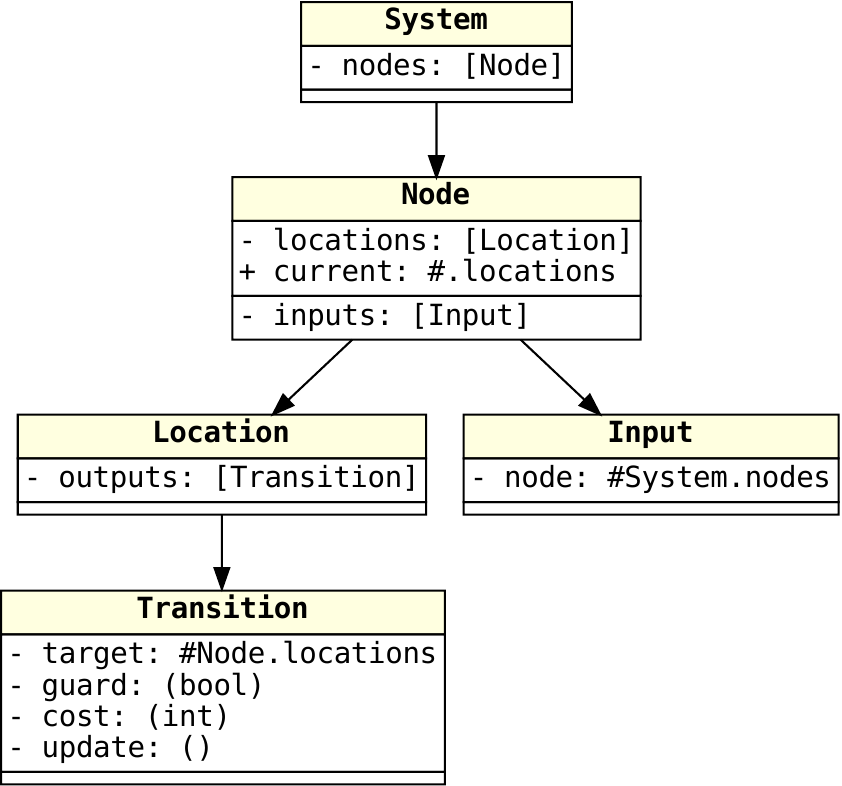
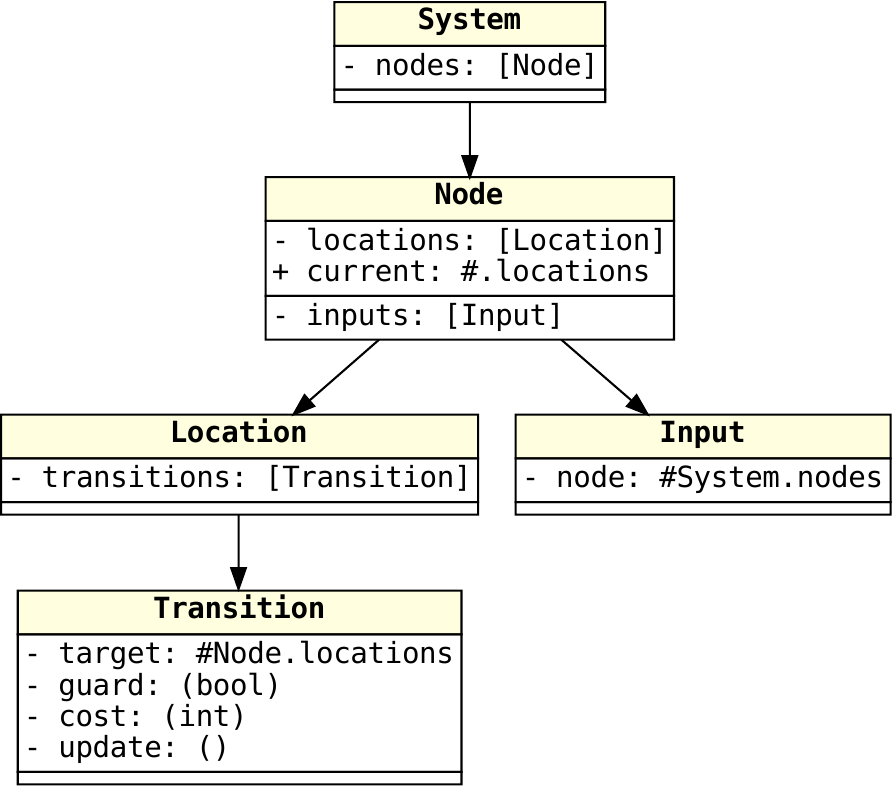
Location.outputs -> .transitions

diff --git a/hyena/pygen.py b/hyena/pygen.py
@@ -237,13 +237,13 @@ class Simulator:
         if state is None:
             state = old
         for nnum, node in enumerate(system.nodes):
-            for tnum, trans in enumerate(node.locations[node.current].outputs):
+            for tnum, trans in enumerate(node.locations[node.current].transitions):
                 self.set_state(state)
                 if trans.guard():
                     cost = trans.cost()
                     trans.update()
                     yield (self.get_state(),
-                           ("nodes", nnum, "locations", node.current, "outputs", tnum),
+                           ("nodes", nnum, "locations", node.current, "transitions", tnum),
                            cost)
         self.set_state(old)
     def _print_step(self):

diff --git a/mini/mini.py b/mini/mini.py
@@ -25,7 +25,7 @@ class Transition:
 class Location:
     # declare here all constants and functions that will be in location.env
     # default fields values
-    outputs = []
+    transitions = []
 
 @template
 class Node:
@@ -37,7 +37,7 @@ class Node:
     locations = [
         Location(
             status = "ok",
-            outputs=[
+            transitions=[
                 Transition(
                     target=1,
                     guard="location.status != STATUS.down and any(isUp(i.node) and isMalware(i.node) for i in node.inputs)",

diff --git a/hyena/ena.py b/hyena/ena.py
@@ -23,10 +23,10 @@ class Transition(Struct):
 
 @dataclass
 class Location(Struct):
-    outputs: Prime[Const[Array[Transition]]]
+    transitions: Prime[Const[Array[Transition]]]
     def succ(self, state, env, path):
-        for num, trans in enumerate(self.outputs):
-            yield from trans.succ(state, env|self.env, path + ("outputs", num))
+        for num, trans in enumerate(self.transitions):
+            yield from trans.succ(state, env|self.env, path + ("transitions", num))
 
 @dataclass
 class Input(Struct):

diff --git a/hyena/draw.py b/hyena/draw.py
@@ -63,7 +63,7 @@ def object_dot(out, root, gvopt):
             if lnum == node.current:
                 attrs += 'style=filled fillcolor="#FFFFAA"'
             out.write(f"    loc_{nnum}_{lnum} [{attrs}]\n")
-            for trans in loc.outputs:
+            for trans in loc.transitions:
                 out.write(f"    loc_{nnum}_{lnum} -> loc_{nnum}_{trans.target}\n")
         out.write("  }\n")
     for nnum, node in enumerate(root.nodes):

diff --git a/README.md b/README.md
@@ -131,10 +131,10 @@ where each node is depicted as a rectangle within which its automaton is drawn, 
 We focus on `Location.cost` expressions since they are the only expressions to require a real evaluation.
 Considering that our `System` instance is `system`, we have four cost expressions:
 
- * `system.nodes[0].locations[0].outputs[0].cost`
- * `system.nodes[0].locations[1].outputs[0].cost`
- * `system.nodes[1].locations[0].outputs[0].cost`
- * `system.nodes[1].locations[1].outputs[0].cost`
+ * `system.nodes[0].locations[0].transitions[0].cost`
+ * `system.nodes[0].locations[1].transitions[0].cost`
+ * `system.nodes[1].locations[0].transitions[0].cost`
+ * `system.nodes[1].locations[1].transitions[0].cost`
 
 Each of this expression can be evaluated in a context that corresponds exactly to the "path" (ie, the nesting of structures) that allows to access it from `system`.
 This is equivalent to defining four functions, one for each expression, as follows:
@@ -150,16 +150,16 @@ def make_cost(node, location, transition):
 
 make_cost(system.nodes[0],
           system.nodes[0].locations[0],
-          system.nodes[0].locations[0].outputs[0])
+          system.nodes[0].locations[0].transitions[0])
 make_cost(system.nodes[0],
           system.nodes[0].locations[1],
-          system.nodes[0].locations[1].outputs[0])
+          system.nodes[0].locations[1].transitions[0])
 make_cost(system.nodes[1],
           system.nodes[1].locations[0],
-          system.nodes[1].locations[0].outputs[0])
+          system.nodes[1].locations[0].transitions[0])
 make_cost(system.nodes[1],
           system.nodes[1].locations[1],
-          system.nodes[1].locations[1].outputs[0])
+          system.nodes[1].locations[1].transitions[0])
 ```
 
 In this code, the function `cost` for each transition is defined within a closure that corresponds to its context, then it is assigned to the transition.
@@ -245,8 +245,8 @@ In the code below, we add Python comments to the JSON source in order to make it
       ],
       "locations": [ # system.nodes[0].locations
         { # system.nodes[0].locations[0]
-          "outputs": [ # system.nodes[0].locations[0].outputs
-            { # system.nodes[0].locations[0].outputs[0]
+          "transitions": [ # system.nodes[0].locations[0].transitions
+            { # system.nodes[0].locations[0].transitions[0]
               # only field .target is provided
               "target": 1
               # the rest will come for Python template
@@ -254,15 +254,15 @@ In the code below, we add Python comments to the JSON source in order to make it
           ]
         },
         { # system.nodes[0].locations[1]
-          "outputs": [{"target": 0}]
+          "transitions": [{"target": 0}]
         }
       ],
       "current": 0  # this could have been defined in Python template
     },
     { # system.nodes[1]
       "inputs": [{"node": 0}],
-      "locations": [{"outputs": [{"target": 1}]},
-                    {"outputs": [{"target": 0}]}],
+      "locations": [{"transitions": [{"target": 1}]},
+                    {"transitions": [{"target": 0}]}],
       "current": 0
     }
   ]
@@ -340,10 +340,10 @@ In [4]: succ = list(system.succ())
 In [5]: succ
 Out[5]: 
 [(system[nodes=(node[current=1], node[current=0])],
-  ('nodes', 0, 'locations', 0, 'outputs', 0),
+  ('nodes', 0, 'locations', 0, 'transitions', 0),
   0),
  (system[nodes=(node[current=0], node[current=1])],
-  ('nodes', 1, 'locations', 0, 'outputs', 0),
+  ('nodes', 1, 'locations', 0, 'transitions', 0),
   0)]
 ```
 
@@ -363,10 +363,10 @@ In [7]: system.state = s
 In [8]: list(system.succ())
 Out[8]: 
 [(system[nodes=(node[current=0], node[current=0])],
-  ('nodes', 0, 'locations', 1, 'outputs', 0),
+  ('nodes', 0, 'locations', 1, 'transitions', 0),
   1),
  (system[nodes=(node[current=1], node[current=1])],
-  ('nodes', 1, 'locations', 0, 'outputs', 0),
+  ('nodes', 1, 'locations', 0, 'transitions', 0),
   1)]
 ```
 
@@ -378,10 +378,10 @@ In [9]: s, p, c = succ[1]
 In [10]: list(system.succ(s))
 Out[10]: 
 [(system[nodes=(node[current=0], node[current=0])],
-  ('nodes', 0, 'locations', 1, 'outputs', 0),
+  ('nodes', 0, 'locations', 1, 'transitions', 0),
   1),
  (system[nodes=(node[current=1], node[current=1])],
-  ('nodes', 1, 'locations', 0, 'outputs', 0),
+  ('nodes', 1, 'locations', 0, 'transitions', 0),
   1)]
 ```
 
@@ -415,10 +415,10 @@ Out[3]: system[nodes=(node[current=0], node[current=0])]
 In [4]: list(sim.succ())
 Out[4]: 
 [(system[nodes=(node[current=0], node[current=1])],
-  ('nodes', 0, 'locations', 0, 'outputs', 0),
+  ('nodes', 0, 'locations', 0, 'transitions', 0),
   0),
  (system[nodes=(node[current=0], node[current=0])],
-  ('nodes', 1, 'locations', 0, 'outputs', 0),
+  ('nodes', 1, 'locations', 0, 'transitions', 0),
   0)]
 ```
 
